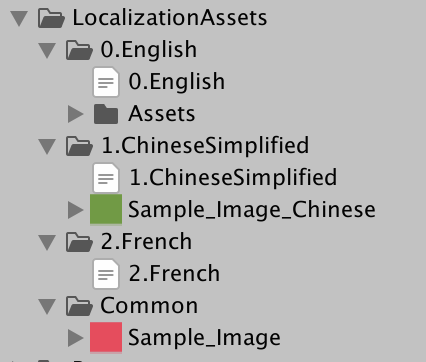
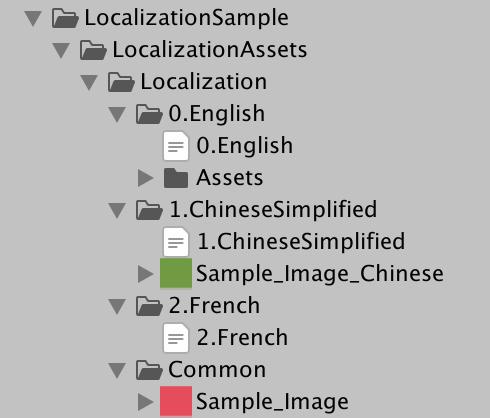
调整Localization AssetBundle 打包策略

diff --git a/Assets/GRTools/Runtime/Localization/LocalizationAssetBundleLoader.cs b/Assets/GRTools/Runtime/Localization/LocalizationAssetBundleLoader.cs
@@ -29,7 +29,7 @@ namespace GRTools.Localization
 
                 var loadrequest = AssetBundle.LoadFromFileAsync(bundlePath);
                 loadrequest.completed += operation =>
-                {
+                { 
                     AssetBundleManifest manifest =
                         loadrequest.assetBundle.LoadAsset<AssetBundleManifest>("AssetBundleManifest");
                     var files = manifest.GetAllAssetBundles();
@@ -167,19 +167,20 @@ namespace GRTools.Localization
 
             if (paths.Length > 0)
             {
+                var parent = Path.GetFileName(localizationFilePath);
+                
                 if (!AssetDatabase.IsValidFolder("Assets/StreamingAssets"))
                 {
                     AssetDatabase.CreateFolder("Assets", "StreamingAssets");
                 }
 
-                if (!AssetDatabase.IsValidFolder("Assets/StreamingAssets/" + KLocalizeFolder))
+                if (!AssetDatabase.IsValidFolder("Assets/StreamingAssets/" + parent))
                 {
-                    AssetDatabase.CreateFolder("Assets/StreamingAssets", KLocalizeFolder);
+                    AssetDatabase.CreateFolder("Assets/StreamingAssets", parent);
                 }
-
-                //TODO: 区分平台
-                BuildPipeline.BuildAssetBundles("Assets/StreamingAssets/" + KLocalizeFolder, buildMap,
-                    BuildAssetBundleOptions.ChunkBasedCompression, target);
+                
+                
+                BuildPipeline.BuildAssetBundles("Assets/StreamingAssets/" + parent, buildMap, BuildAssetBundleOptions.ChunkBasedCompression, target);
             }
         }
 

diff --git a/Assets/GRTools/Runtime/Localization/LocallizationManager.cs b/Assets/GRTools/Runtime/Localization/LocallizationManager.cs
@@ -190,20 +190,19 @@ namespace GRTools.Localization
         {
             _followSystem = followSystem;
             _defaultLanguage = defaultLanguage;
-            loader = fileLoader;
-            
+
             if (fileLoader == null)
             {
-                loader = new LocalizationAssetBundleLoader();
+                fileLoader = new LocalizationAssetBundleLoader();
             }
 
             if (fileParser == null)
             {
-                parser = new LocalizationDefaultParser();
+                fileParser = new LocalizationDefaultParser();
             }
 
             //获取语言列表
-            LoadAllLocalizationFilesData(null, fileParser);
+            LoadAllLocalizationFilesData(fileLoader, fileParser);
         }
 
         /// <summary>

diff --git a/Assets/GRTools/Runtime/Localization/LocalizationComponent.cs b/Assets/GRTools/Runtime/Localization/LocalizationComponent.cs
@@ -12,7 +12,6 @@ namespace GRTools.Localization
         [Tooltip("本地化默认值（文本，图片名称）")] public string defaultValue;
         [Tooltip("是否设置图片原始尺寸")] public bool setNativeSize;
         internal Vector2 originalImageSize = Vector2.zero;
-
     }
     
     public class LocalizationComponent : MonoBehaviour
